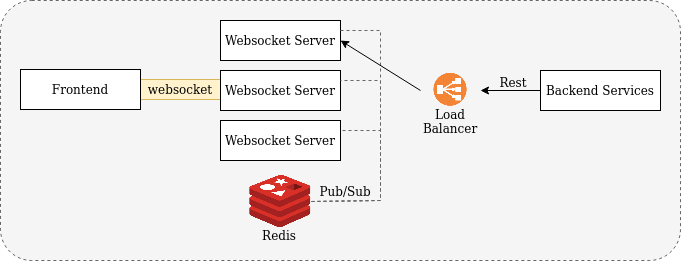
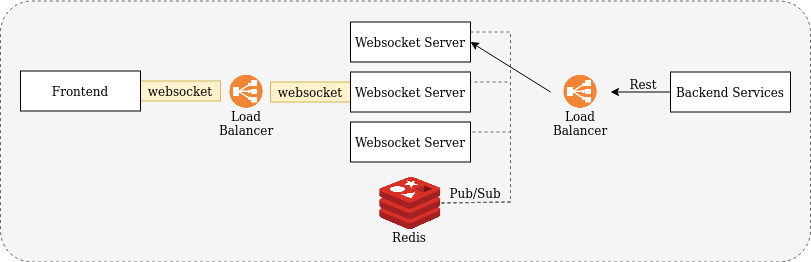
update documentation

diff --git a/README.md b/README.md
@@ -4,29 +4,30 @@
 
 The project explores development for real time communication between frontend and backend using websockets. **The websocket 
 server provides proxy communications between frontend and other backend services**. This is to provide an intermediary layer 
-for basic communication to frontend. The benefits include a higher degree of control over websocket connections to frontend 
+for real time communication to frontend. The benefits include a higher degree of control over websocket connections to frontend 
 instead of having individual backend services establishing their own websocket connection to frontend.
 
-![Diagram](doc/websockets1.png)
+![Diagram](doc/websockets7.png)
 
 - Communications between Frontend and Websocket Server is via **websockets**
-- Communications between Websocket Server and Backend services is via **Rest APIs** or **websockets**
-    - Pub/Sub Model using Message Queue is a good alternative
+- Communications between Websocket Server and Backend services is via **Rest APIs** or **Pub/Sub model**
 
 Below are the use cases for the websocket server:
 
-1. **Sending events/messages from backend services to frontend for real time updates**
+1. **Unidirectional: Sending events/messages from backend services to frontend for real time updates**
 
     Backend services can send events/messages to the websocket server via Rest APIs. These events/messages will then be 
     send (proxy) to the frontend via the websocket connection.
 
     ![Diagram](doc/websockets2.png)
 
-2. **Real time chat between frontend and backend services**
+2. **Bidirectional: Real time communications between frontend and backend services**
 
-    Backend services (Eg. Chat Bot Backend) can communicate with frontend via websocket (proxy).
+    Backend services (Eg. Chat Bot Backend) can communicate with frontend via websocket (proxy). *Note that instead of using
+    websocket for chats, it might be beneficial to make use of other messaging protocols (Eg. XMPP). However, the concept of 
+    the websocket server proxy can still be applied.*
 
-    ![Diagram](doc/websockets3.png)
+    ![Diagram](doc/websockets8.png)
 
 ## Scaling Websocket Server
 
@@ -41,8 +42,27 @@ To solve the scalability issue, we make use of a Pub/Sub Model where the webscok
 event/message will broadcast the event/message to all websocket server instances which will then propagate the event/message 
 to the connected frontend client. In our set up below, we make use of Redis Pub/Sub.
 
+**1) Unidirectional Communication from Backend Services to Websocket Server via Rest API**
+
 ![Diagram](doc/websockets6.png)
 
+- Backend services send events/messages to one of the websocket server instance via Rest API
+- Websocket server instance broadcast (publish) the events/messages to message broker (Redis) 
+- All websocket server receives (subscribe) the events/messages
+- All websocket server send (broadcast) events/messages to frontend via websocket
+
+**2) Bidirectional Communication to Websocket Server via Pub/Sub and Websockets**
+
+![Diagram](doc/websockets9.png)
+
+- Backend to Frontend
+    - Backend services send (publish) events/messages to message broker (Redis)
+    - All websocket server receives (subscribe) the events/messages
+    - All websocket server send (broadcast) events/messages to frontend via websocket
+- Frontend to Backend
+    - Frontend send (publish) events/messages to one of the websocket server instance via websocket
+    - Websocket server instance broadcast (pubish) the events/messages to message broker (Redis)
+    - Backend services receives (subscribe) the events/messages
 
 ## Getting Started
 

diff --git a/doc/OLD_DESIGN.md b/doc/OLD_DESIGN.md
@@ -1,0 +1,44 @@
+# Websockets Exploration
+
+## Overview
+
+The project explores development for real time communication between frontend and backend using websockets. **The websocket 
+server provides proxy communications between frontend and other backend services**. This is to provide an intermediary layer 
+for basic communication to frontend. The benefits include a higher degree of control over websocket connections to frontend 
+instead of having individual backend services establishing their own websocket connection to frontend.
+
+![Diagram](websockets1.png)
+
+- Communications between Frontend and Websocket Server is via **websockets**
+- Communications between Websocket Server and Backend services is via **Rest APIs** or **websockets**
+    - Pub/Sub Model using Message Queue is a good alternative
+
+Below are the use cases for the websocket server:
+
+1. **Sending events/messages from backend services to frontend for real time updates**
+
+    Backend services can send events/messages to the websocket server via Rest APIs. These events/messages will then be 
+    send (proxy) to the frontend via the websocket connection.
+
+    ![Diagram](websockets2.png)
+
+2. **Real time chat between frontend and backend services**
+
+    Backend services (Eg. Chat Bot Backend) can communicate with frontend via websocket (proxy).
+
+    ![Diagram](websockets3.png)
+
+## Scaling Websocket Server
+
+![Diagram](websockets4.png)
+
+The set up above works perfectly fine with a single instance of websocket server. However, when we try to scale up the 
+number of websocket server instances, it will result in message loss as shown in the diagram below.
+
+![Diagram](websockets5.png)
+
+To solve the scalability issue, we make use of a Pub/Sub Model where the webscoket server instance that received the 
+event/message will broadcast the event/message to all websocket server instances which will then propagate the event/message 
+to the connected frontend client. In our set up below, we make use of Redis Pub/Sub.
+
+![Diagram](websockets6.png)
